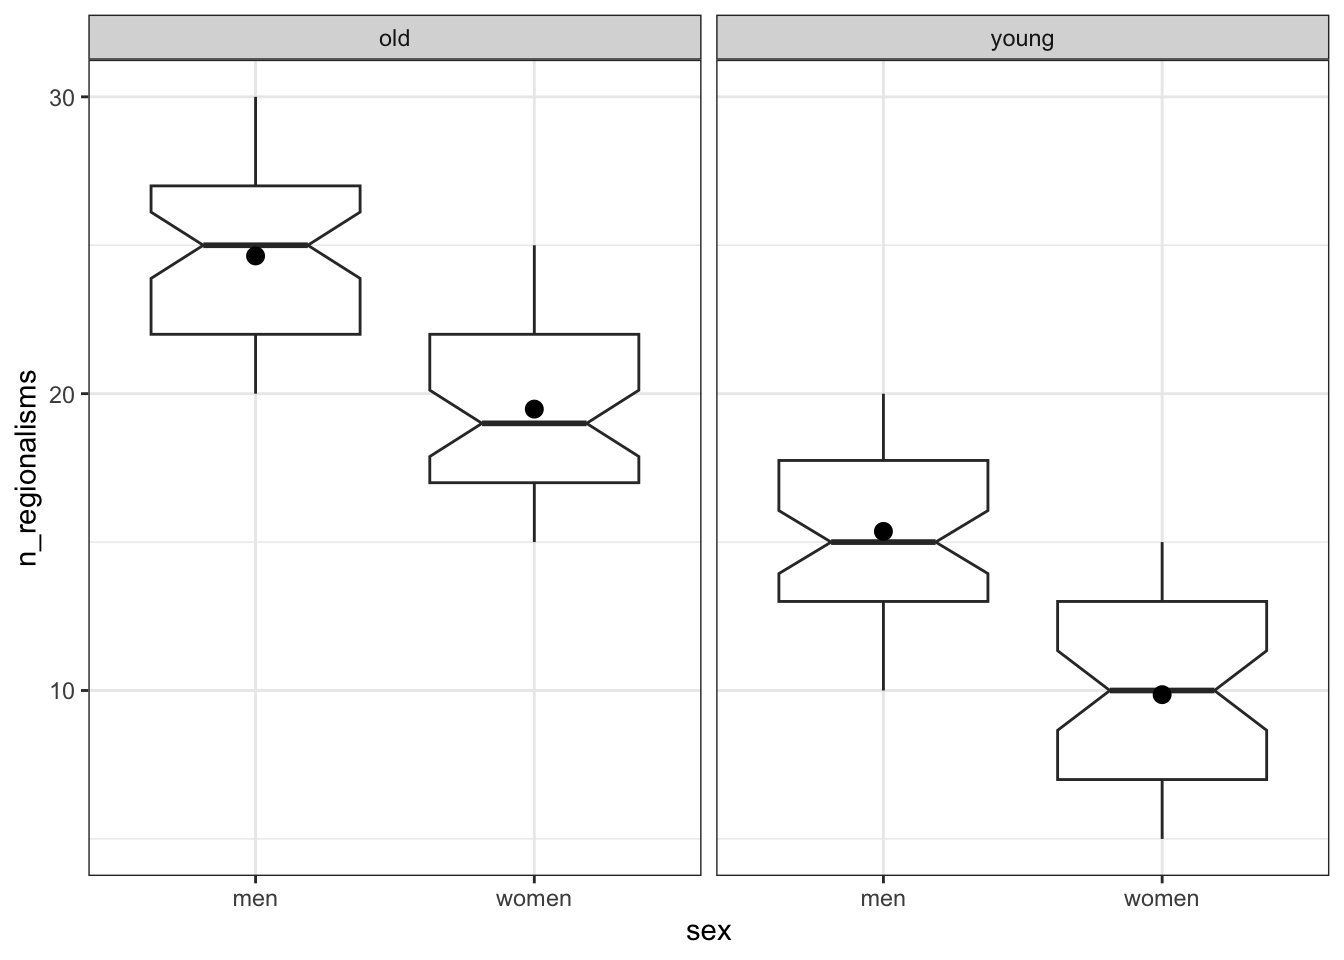
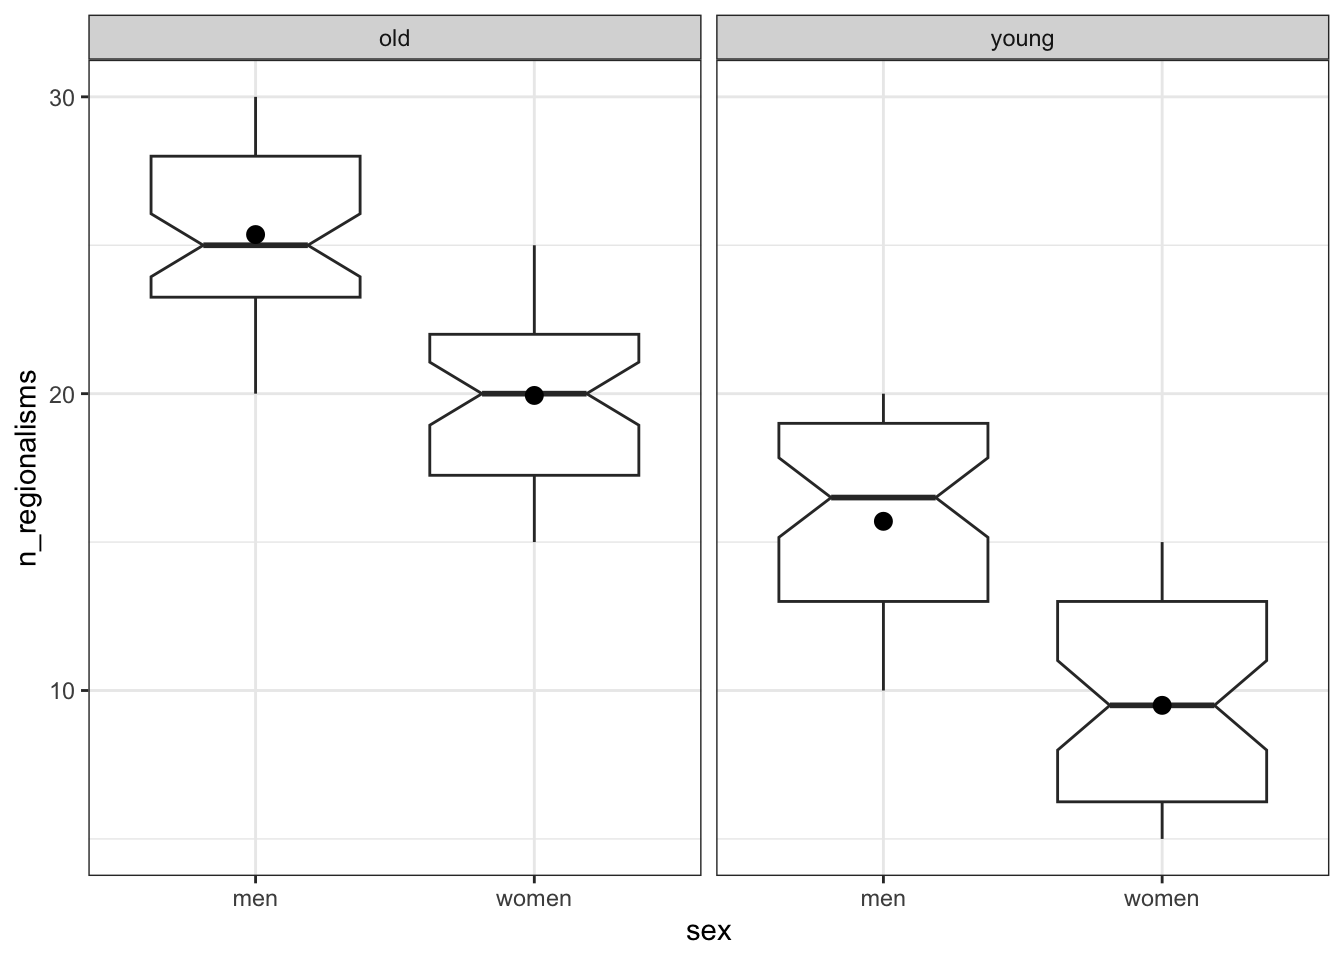
objective

diff --git a/docs/lessons/interaction.html b/docs/lessons/interaction.html
@@ -347,7 +347,8 @@ pre > code.sourceCode > span > a:first-child::before { text-decoration: underlin
     <h2 id="toc-title">On this page</h2>
    
   <ul>
-  <li><a href="#load-data" id="toc-load-data" class="nav-link active" data-scroll-target="#load-data">Load data</a></li>
+  <li><a href="#objective" id="toc-objective" class="nav-link active" data-scroll-target="#objective">Objective</a></li>
+  <li><a href="#interactions" id="toc-interactions" class="nav-link" data-scroll-target="#interactions">Interactions</a></li>
   <li><a href="#plot-age" id="toc-plot-age" class="nav-link" data-scroll-target="#plot-age">Plot age</a></li>
   <li><a href="#plot-sex" id="toc-plot-sex" class="nav-link" data-scroll-target="#plot-sex">Plot sex</a></li>
   <li><a href="#plot-age-and-sex-together" id="toc-plot-age-and-sex-together" class="nav-link" data-scroll-target="#plot-age-and-sex-together">Plot age and sex together</a></li>
@@ -377,9 +378,13 @@ pre > code.sourceCode > span > a:first-child::before { text-decoration: underlin
 
 </header>
 
-<section id="load-data" class="level2">
-<h2 class="anchored" data-anchor-id="load-data">Load data</h2>
-<p>In the CMS, there’s a fictitious dataset named “regionalisms.csv” in the LMS with the number of regionalisms (e.g., <em>potato bug</em> for <em>rolly polly</em>, <em>coke</em> for any soda, <em>scallions</em> for <em>green onions</em>, etc.) normalized to N per hour of speech, as spoken by 200 speakers grouped by age and sex. Download the CSV file to your harddrive and load it into R.</p>
+<section id="objective" class="level2">
+<h2 class="anchored" data-anchor-id="objective">Objective</h2>
+<p>Students will run and interpret the interaction between two explanatory variables.</p>
+</section>
+<section id="interactions" class="level2">
+<h2 class="anchored" data-anchor-id="interactions">Interactions</h2>
+<p>Let’s talk about interactions between explanatory variables by looking at an example. In the LMS, there’s a fictitious dataset named “regionalisms.csv” with the number of regionalisms (e.g., <em>potato bug</em> for <em>rolly polly</em>, <em>coke</em> for any soda, <em>scallions</em> for <em>green onions</em>, etc.) normalized to N per hour of speech, as spoken by 200 speakers grouped by age and sex. Download the CSV file to your harddrive and load it into R.</p>
 <div class="cell">
 <div class="sourceCode cell-code" id="cb1"><pre class="sourceCode r code-with-copy"><code class="sourceCode r"><span id="cb1-1"><a href="#cb1-1" aria-hidden="true" tabindex="-1"></a><span class="fu">library</span>(<span class="st">"tidyverse"</span>)</span></code><button title="Copy to Clipboard" class="code-copy-button"><i class="bi"></i></button></pre></div>
 <div class="cell-output cell-output-stderr">
@@ -595,24 +600,24 @@ lm(formula = n_regionalisms ~ age_group + sex + age_group:sex,
 
 Residuals:
    Min     1Q Median     3Q    Max 
- -5.36  -2.48  -0.36   2.52   5.52 
+ -5.70  -2.70   0.06   2.64   5.50 
 
 Coefficients:
                         Estimate Std. Error t value Pr(&gt;|t|)    
-(Intercept)              24.6400     0.4314  57.121  &lt; 2e-16 ***
-age_groupyoung           -9.2800     0.6100 -15.212  &lt; 2e-16 ***
-sexwomen                 -5.1600     0.6100  -8.458 6.19e-15 ***
-age_groupyoung:sexwomen  -0.3400     0.8627  -0.394    0.694    
+(Intercept)              25.3600     0.4344  58.379  &lt; 2e-16 ***
+age_groupyoung           -9.6600     0.6143 -15.724  &lt; 2e-16 ***
+sexwomen                 -5.4200     0.6143  -8.822 6.17e-16 ***
+age_groupyoung:sexwomen  -0.7800     0.8688  -0.898     0.37    
 ---
 Signif. codes:  0 '***' 0.001 '**' 0.01 '*' 0.05 '.' 0.1 ' ' 1
 
-Residual standard error: 3.05 on 196 degrees of freedom
-Multiple R-squared:  0.7635,    Adjusted R-squared:  0.7599 
-F-statistic: 210.9 on 3 and 196 DF,  p-value: &lt; 2.2e-16</code></pre>
+Residual standard error: 3.072 on 196 degrees of freedom
+Multiple R-squared:  0.7848,    Adjusted R-squared:  0.7815 
+F-statistic: 238.3 on 3 and 196 DF,  p-value: &lt; 2.2e-16</code></pre>
 </div>
 <div class="sourceCode cell-code" id="cb23"><pre class="sourceCode r code-with-copy"><code class="sourceCode r"><span id="cb23-1"><a href="#cb23-1" aria-hidden="true" tabindex="-1"></a><span class="fu">AIC</span>(m3)</span></code><button title="Copy to Clipboard" class="code-copy-button"><i class="bi"></i></button></pre></div>
 <div class="cell-output cell-output-stdout">
-<pre><code>[1] 1019.619</code></pre>
+<pre><code>[1] 1022.429</code></pre>
 </div>
 </div>
 <p>The interaction term was <strong>not</strong> selected as making a significant contribution to the prediction of the number of regionalisms in this second set of fictitious data.</p>
